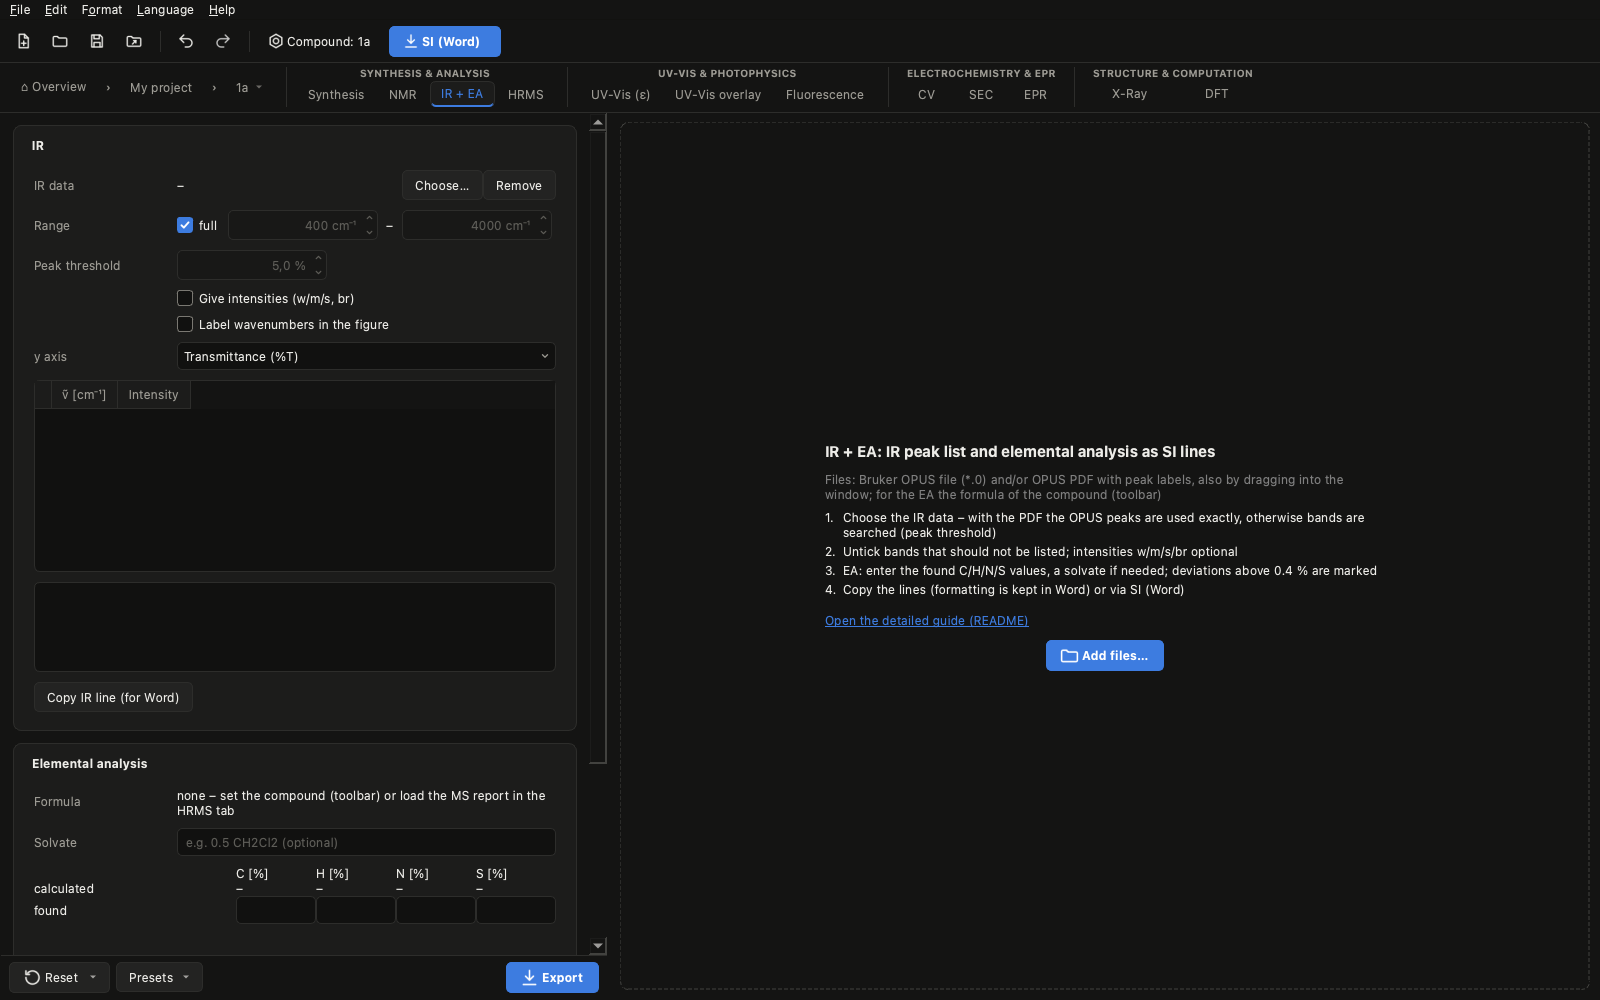
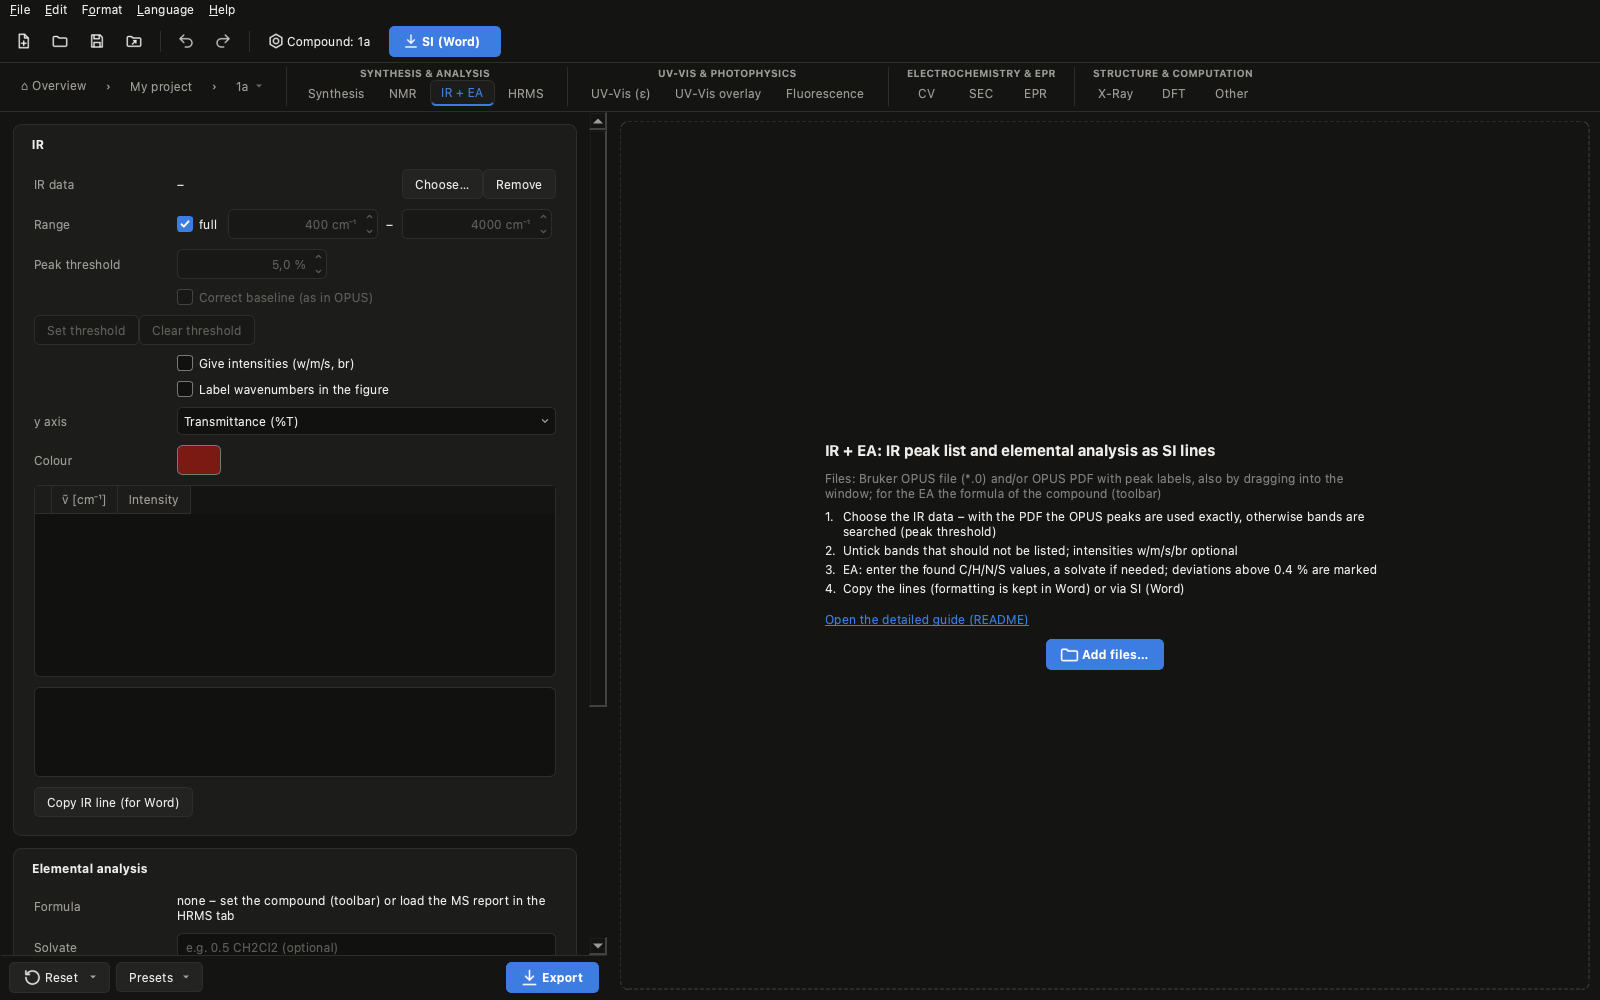
release: 2.4.0
- Version 2.4.0, both changelogs (audit P0–P10 by tab, F1–F5 as new features).
- Start screen: compound rows back at full size (Robin), active filter
  highlighted, each project folder only once as a tile.
- Screenshots regenerated (new start screen, nav bar with "Other").

diff --git a/elucida/app/welcome.py b/elucida/app/welcome.py
@@ -163,29 +163,27 @@ class RecentRow(QWidget):
     """Eine Zeile der Projektliste: Verbindung, Ordner/Pfad, Analytik-Abzeichen, zuletzt geändert."""
     opened = Signal(str)
 
-    def __init__(self, info, number=None, extra=None, compact=False):
+    def __init__(self, info, number=None, extra=None):
         super().__init__()
         self.info = info
         self.setObjectName("recentRow")
         self.setAttribute(Qt.WA_StyledBackground, True)
         self.setCursor(Qt.PointingHandCursor)
         h = QHBoxLayout(self)
-        h.setContentsMargins(14, 6 if compact else 10, 14, 6 if compact else 10)
-        side = 44 if compact else 64                   # Startbildschirm (FB-2): kleines Strukturbild
+        h.setContentsMargins(14, 10, 14, 10)
         h.setSpacing(14)
         if number is not None:                         # Publikationsseite: Platz in der Reihenfolge
             h.addWidget(QLabel(str(number), objectName="recentWhen", alignment=Qt.AlignCenter), 0, Qt.AlignVCenter)
         if info.get("thumb"):                          # Struktur (beim Speichern abgelegt), auf Weiß wie in ChemDraw
             pic = QLabel(objectName="recentThumb", alignment=Qt.AlignCenter)
-            pic.setFixedSize(side, side)
+            pic.setFixedSize(64, 64)
             dpr = max(1.0, self.devicePixelRatioF())
-            pm = QPixmap(info["thumb"]).scaled(int((side - 6) * dpr), int((side - 6) * dpr), Qt.KeepAspectRatio,
-                                               Qt.SmoothTransformation)
+            pm = QPixmap(info["thumb"]).scaled(int(58 * dpr), int(58 * dpr), Qt.KeepAspectRatio, Qt.SmoothTransformation)
             pm.setDevicePixelRatio(dpr)
             pic.setPixmap(pm)
         else:                                          # ohne Strukturbild: Kürzel in gleich großer Kachel
             pic = QLabel((info["name"][:2] or "?").upper(), objectName="recentMono", alignment=Qt.AlignCenter)
-            pic.setFixedSize(side, side)
+            pic.setFixedSize(64, 64)
         h.addWidget(pic)
         v = QVBoxLayout()
         v.setSpacing(2)
@@ -219,10 +217,7 @@ class RecentRow(QWidget):
         else:
             badges.addStretch(1)
         v.addLayout(title)
-        if not compact:                                # kompakt: Pfad nur als Tooltip
-            v.addWidget(sub)
-        else:
-            self.setToolTip(info["path"])
+        v.addWidget(sub)
         v.addLayout(badges)
         if extra is not None:                          # Publikation: Checkliste der Verbindung
             v.addWidget(extra)

diff --git a/elucida/app/main_window.py b/elucida/app/main_window.py
@@ -1944,13 +1944,15 @@ class MainWindow(QMainWindow):
             r.setParent(None)
             r.deleteLater()
         self.recent_rows, self.pub_rows = [], []
-        pubs = []
-        for p in self.recent_publications():          # Publikationen oben, je höchstens drei sichtbar
+        pubs, seen = [], set()
+        for p in self.recent_publications():          # Projekte oben als Kacheln, jeder Ordner einmal
             try:
                 info = publication_info(p)
+                key = Path(p).resolve()                # macOS: /var und /private/var sind derselbe Ordner
             except Exception:
                 info = None
-            if info is not None:
+            if info is not None and key not in seen:
+                seen.add(key)
                 pubs.append(info)
         shown = pubs if self._pubs_all else pubs[:2 * PUB_TILE_COLS]     # höchstens zwei Reihen (FB-2)
         for k, info in enumerate(shown):
@@ -1966,9 +1968,13 @@ class MainWindow(QMainWindow):
         self.lbl_pubs.setVisible(bool(pubs))
         self.btn_pubs_all.setVisible(len(pubs) > 2 * PUB_TILE_COLS)
         self.btn_pubs_all.setText(T("welcome_pubs_less") if self._pubs_all else T("welcome_pubs_all", n=len(pubs)))
+        for b in self.grp_filter.buttons():                # aktiver Filter hervorgehoben (blau wie Hauptknöpfe)
+            b.setProperty("accent", b.property("filter") == self._recent_filter)
+            b.style().unpolish(b)
+            b.style().polish(b)
         infos = self.compound_infos(self._recent_filter)
         for info in infos[:self._recent_limit]:
-            row = WEL.RecentRow(info, compact=True)
+            row = WEL.RecentRow(info)
             row.opened.connect(lambda p: self.open_project(p))
             row.setContextMenuPolicy(Qt.CustomContextMenu)
             row.customContextMenuRequested.connect(lambda pos, r=row: self._recent_menu(r, pos))
@@ -2052,7 +2058,7 @@ class MainWindow(QMainWindow):
         self.lbl_pubs.setVisible(any(r.matches(t) for r in self.pub_rows))
         hits = [i for i in self._search_cache if WEL.info_matches(i, t)][:60]
         for info in hits:
-            row = WEL.RecentRow(info, compact=True)
+            row = WEL.RecentRow(info)
             row.opened.connect(lambda p: self.open_project(p))
             row.setContextMenuPolicy(Qt.CustomContextMenu)
             row.customContextMenuRequested.connect(lambda pos, r=row: self._recent_menu(r, pos))

diff --git a/elucida/__init__.py b/elucida/__init__.py
@@ -2,5 +2,5 @@
 from pathlib import Path
 
 APP_NAME = "Elucida"
-APP_VERSION = "2.3.7"
+APP_VERSION = "2.4.0"
 ROOT = Path(__file__).resolve().parent.parent       # Repo-Wurzel (assets/, README, tools/); gebaut: sys._MEIPASS

diff --git a/CHANGELOG.de.md b/CHANGELOG.de.md
@@ -2,6 +2,58 @@
 
 # Änderungen
 
+## 2.4.0 – 31.10.2026
+
+### Neu
+- **Synthese:** allgemeine Vorschriften (GP A, B …) je Projekt, je Verbindung wählbar und in der Gesamt-SI einmal vor der
+  ersten Verbindung, die sie benutzt; ein umbenanntes GP-Kürzel ändert sich in allen Verbindungen des Projekts; Mengen mit Einheit in der Zelle („1.03 g“, „150 µL“, „800 mM“), Stoffmenge
+  eintragbar; „Aus Schema“ liest die ChemDraw-Reagenzientabelle; „Substanz übrig“ mit Probennummer (Startbildschirm ⚗,
+  Suche, Checkliste gelb statt rot).
+- **UV-Vis-Overlay:** „Aus Tabs ▾“ übernimmt ε-Serien (verknüpft mit dem ε-Tab, Messung wählbar) und TD-DFT-Rechnungen
+  des DFT-Tabs, ohne die Dateien neu zu laden.
+- **IR:** „Basislinie korrigieren (wie OPUS)“ (konkaves Gummiband wie OPUS-Basislinienmethode 3, Parameter aus dem
+  OPUS-Verlauf; Hinweis, wenn OPUS korrigiert hat, die Datei aber das Rohspektrum enthält); Schwellenlinie für die
+  Peaksuche (Klick = Punkt, Rechtsklick = entfernen); liegt nur das OPUS-PDF vor, wird das Spektrum aus dem PDF gelesen.
+- **DFT:** Isofläche wie in IboView; neuer Reiter **Energieprofil** (Opt/Freq + optionale Einzelpunkte, über die
+  Geometrie zugeordnet, ΔG/ΔH/ΔE in kcal mol⁻¹, Pfade, Unterschrift „SP//Opt level of theory“) mit **IRC**-Modus
+  (Reaktionskoordinate in Å, Barrieren); neuer Reiter **NICS** (Gaussian-NMR mit Geisteratomen: NICS und NICSzz, Scans
+  als Kurven).
+- **Tab „Weitere“** (letzter Tab): Abbildungen anderer Programme (PDF, SVG, PNG) unverändert in die SI, mit Unterschrift
+  und Kapitel (vorhandenes Kapitel oder eigene Überschrift).
+- **Schnellauswertung** auf dem Startbildschirm: Verbindung „Auswertung <Datum>“ in einem internen Projekt, Exporte
+  fragen nach dem Zielordner; später in ein echtes Projekt verschieben.
+- **Startbildschirm:** kompakte Projektkacheln mit Fortschritt (vollständig laut Checkliste), Verbindungsliste mit den
+  Filtern Alle · Zuletzt · Unvollständig · Substanz übrig, 20 neueste und „Mehr“.
+- **Mnova:** ein Mnova-Dokument kann auch für das ganze Projekt abgelegt werden; „In Mnova öffnen“ auf der Projektseite
+  und im NMR-Tab.
+- Hilfe → „Maus und Tastenkürzel“, Rückgängig bleibt im offenen Tab, Hinweise, wenn ein Schritt noch nicht geht.
+
+### Geändert
+- Datenpakete enthalten keine Mnova-Dokumente (.mnova) mehr.
+- IR-Bild wie der OPUS-Bericht (Labels in einer Reihe am Rand, Hilfslinien), Farbe des Spektrums wählbar.
+- ε immer ganzzahlig, Wert und Fehler („1234 ± 56“), dieselbe Zahl in Tabelle, Bild, SI-Zeile, Methodentext und
+  Excel; λ immer ganzzahlig.
+
+### Behoben (Prüfung aller Tabs mit echten Daten)
+- **UV-Vis (ε) und Overlay:** Probennamen mit Dezimalkomma, „µ“/„μ“ und CSV-Kodierungen; Skalierung und Einzelnormierung
+  im Overlay; Größe der y-Achse.
+- **CV und SEC:** Hinpeak eines Paars, Basislinie breiter Wellen, Potentiale von Spektren ohne Zeitspalte,
+  BWSpec-Dateien ohne Kalibrierung.
+- **HRMS, IR, EA:** Formeln mit allen Elementen, gemischte Polarität in Bruker-.d, nachverfolgte Löschungen im
+  MS-Bericht, OPUS-Transmission als Anteil/Prozent.
+- **X-Ray:** Vorzeichen von Torsionen invertierter Atome, Z′ = 2 gegenüber Lösungsmittel, Fehlordnungsgruppen,
+  Symmetriecodes in Unterschriften.
+- **DFT, TD-DFT, Orbitale:** Geometrien nach Gaussian-Link1, Spiegelbild im Vergleichsmodus, offenschalige
+  Molden-Dateien, TD-DFT-Ausgaben in UTF-16, Spin-Flip-Zustände.
+- **EPR:** Referenzfrequenz in Fit und Simulation, Kalibrierung bei „Alles auf Standard“, BES3T-Partnerdateien,
+  Zerfallsfit (jetzt kleinste Quadrate auf den gemessenen Intensitäten mit Vertrauensband).
+- **NMR, Synthese, Strukturen:** Zeilen des Mnova-Berichts, Multiplizitäten, DEPT-Namen, Rundung der ¹H-Frequenz,
+  Mengenprüfung.
+- **SI-Export, Datenpaket, Projekt:** Laborkürzel, Nutzernamen und Daten aus allen Dateien der Datenpakete entfernt
+  (Messwerte bytegleich), Details im Word-Export.
+- **Zustand und Rückgängig:** Einstellungen gingen nach Öffnen/Rückgängig verloren (Lösungsmittel je Serie,
+  EPR-Referenz), automatisches Speichern des Beispielprojekts.
+
 ## 2.3.7 – 25.10.2026
 
 ### Geändert

diff --git a/CHANGELOG.md b/CHANGELOG.md
@@ -2,6 +2,55 @@
 
 # Changelog
 
+## 2.4.0 – 2026-10-31
+
+### New
+- **Synthesis:** general procedures (GP A, B …) per project, chosen per compound and written once before the first
+  compound that uses them in the full SI; renaming a GP key updates every compound of the project; amounts with units in the cell ("1.03 g", "150 µL", "800 mM"), amount of
+  substance as an entry; "From scheme" reads the ChemDraw reagent table; "sample left" with sample number (start
+  screen ⚗, search, checklist yellow instead of red).
+- **UV-Vis overlay:** "From tabs ▾" takes ε series (linked to the ε tab, measurement selectable) and TD-DFT
+  calculations of the DFT tab without loading the files again.
+- **IR:** "Correct baseline (as in OPUS)" (concave rubberband like OPUS baseline method 3, parameters from the OPUS
+  history; hint when OPUS corrected the spectrum but the file holds the raw one); threshold line for peak picking
+  (click = point, right-click = remove); with only the OPUS PDF the spectrum is read from the PDF.
+- **DFT:** isosurface controls like IboView; new page **Energy profile** (opt/freq + optional single points matched by
+  geometry, ΔG/ΔH/ΔE in kcal mol⁻¹, paths, caption "SP//Opt level of theory") with an **IRC** mode (reaction coordinate
+  in Å, barriers); new page **NICS** (Gaussian NMR with ghost atoms: NICS and NICSzz, scans as curves).
+- **Other tab** (last tab): figures from other programs (PDF, SVG, PNG) go into the SI unchanged, with caption and
+  chapter (existing chapter or own heading).
+- **Quick evaluation** on the start screen: a compound "Evaluation <date>" in an internal project, exports ask for the
+  target folder; move it into a real project later.
+- **Start screen:** compact project tiles with progress (complete according to the checklist), compound list with the
+  filters All · Recent · Incomplete · Sample left, 20 newest and "More".
+- **Mnova:** a Mnova document can also be stored for the whole project; "Open in Mnova" on the project page and in
+  the NMR tab.
+- Help → "Mouse and shortcuts", undo stays in the open tab, hints when a step is not possible yet.
+
+### Changed
+- Data packages no longer contain Mnova documents (.mnova).
+- IR figure like the OPUS report (labels in one row at the edge, guide lines), spectrum colour selectable.
+- ε is always an integer, value and error ("1234 ± 56"), the same number in table, figure, SI line, methods text and
+  Excel; λ always an integer.
+
+### Fixed (review of all tabs against real data)
+- **UV-Vis (ε) and overlay:** sample names with decimal comma, "µ"/"μ" and CSV encodings; overlay scaling and single
+  normalisation; y-axis quantity.
+- **CV and SEC:** forward peak of a couple, baseline of broad waves, potentials of spectra without a time column,
+  BWSpec files without calibration.
+- **HRMS, IR, EA:** formulas with all elements, mixed polarity in Bruker .d files, tracked deletions in the MS report,
+  OPUS transmittance as fraction/percent.
+- **X-Ray:** torsion signs of inverted atoms, Z′ = 2 versus solvent, disorder groups, symmetry codes in captions.
+- **DFT, TD-DFT, orbitals:** Gaussian Link1 geometries, mirror image in the comparison mode, open-shell Molden files,
+  UTF-16 TD-DFT outputs, spin-flip states.
+- **EPR:** reference frequency in fit and simulation, calibration with "Reset all", BES3T partner files, decay fit
+  (now least squares on the measured intensities with confidence band).
+- **NMR, synthesis, structures:** Mnova report lines, multiplicities, DEPT names, ¹H frequency rounding, amount checks.
+- **SI export, data package, project:** lab codes, user names and dates removed from all files of data packages
+  (measured values byte-identical), Word details.
+- **State and undo:** settings lost after opening/undo (solvent per series, EPR reference), autosave of the example
+  project.
+
 ## 2.3.7 – 2026-10-25
 
 ### Changed

diff --git a/CLAUDE.md b/CLAUDE.md
@@ -248,7 +248,7 @@ Fluoreszenz, CV, SEC, EPR, X-Ray (CIF) und DFT (xyz); SI-Abschnitt als Word-Date
   Gruppe, ohne Gruppe am Ende; Gesamt-SI: Unterkapitel (`subsection`, Überschrift 2, TOC-Ebene 2) nur in Synthese und NMR.
   docx: Seitenumbruch als `pageBreakBefore` am nächsten Absatz (`_page_break_before`), pPr in Schema-Reihenfolge (`_ppr`).
 - Startbildschirm (`app/welcome.py`, F5): Projektkacheln (`PublicationTile`, höchstens zwei Reihen à `PUB_TILE_COLS`,
-  Fortschritt = vollständig laut `checklist`), darunter Verbindungen kompakt mit Filtern `WELCOME_FILTERS` (Alle =
+  Fortschritt = vollständig laut `checklist`), darunter Verbindungen (volle Zeilen, Robin) mit Filtern `WELCOME_FILTERS` (Alle =
   `search_index` nach Stand, 20 + „Mehr“); Projektliste aus der Projektdatei (Verbindung, Analytik-Abzeichen, Stand),
   Strukturbild nur aus `.elucida/thumb.png` (`write_thumb` beim Speichern, nur wenn die Struktur neuer ist) – nie beim
   Anzeigen rendern; bis 20 Projekte.
